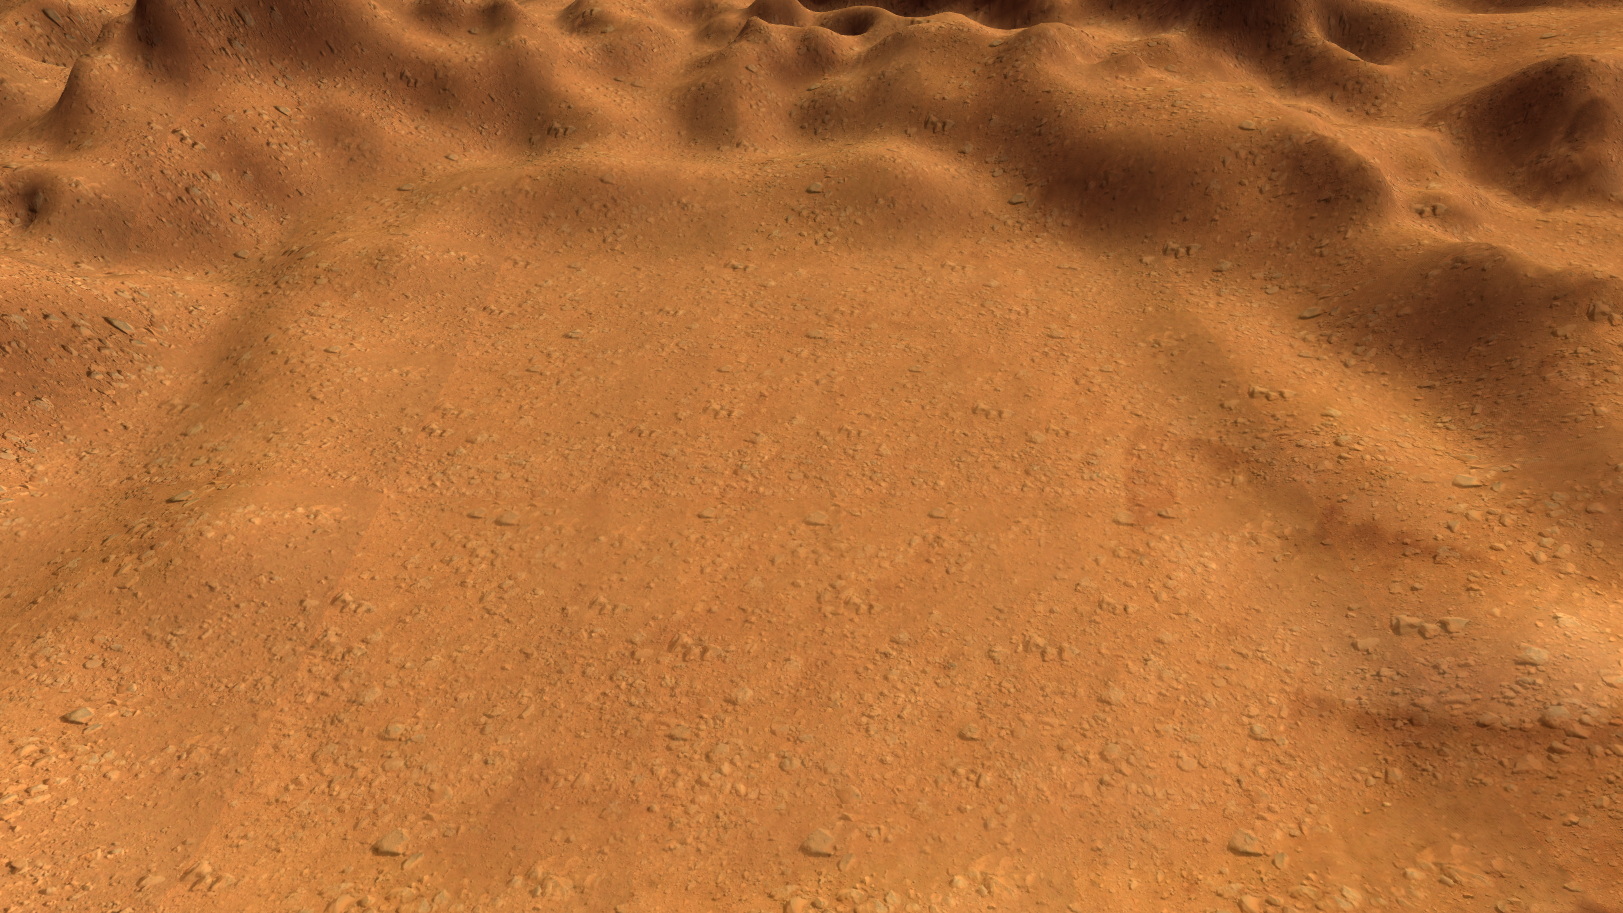
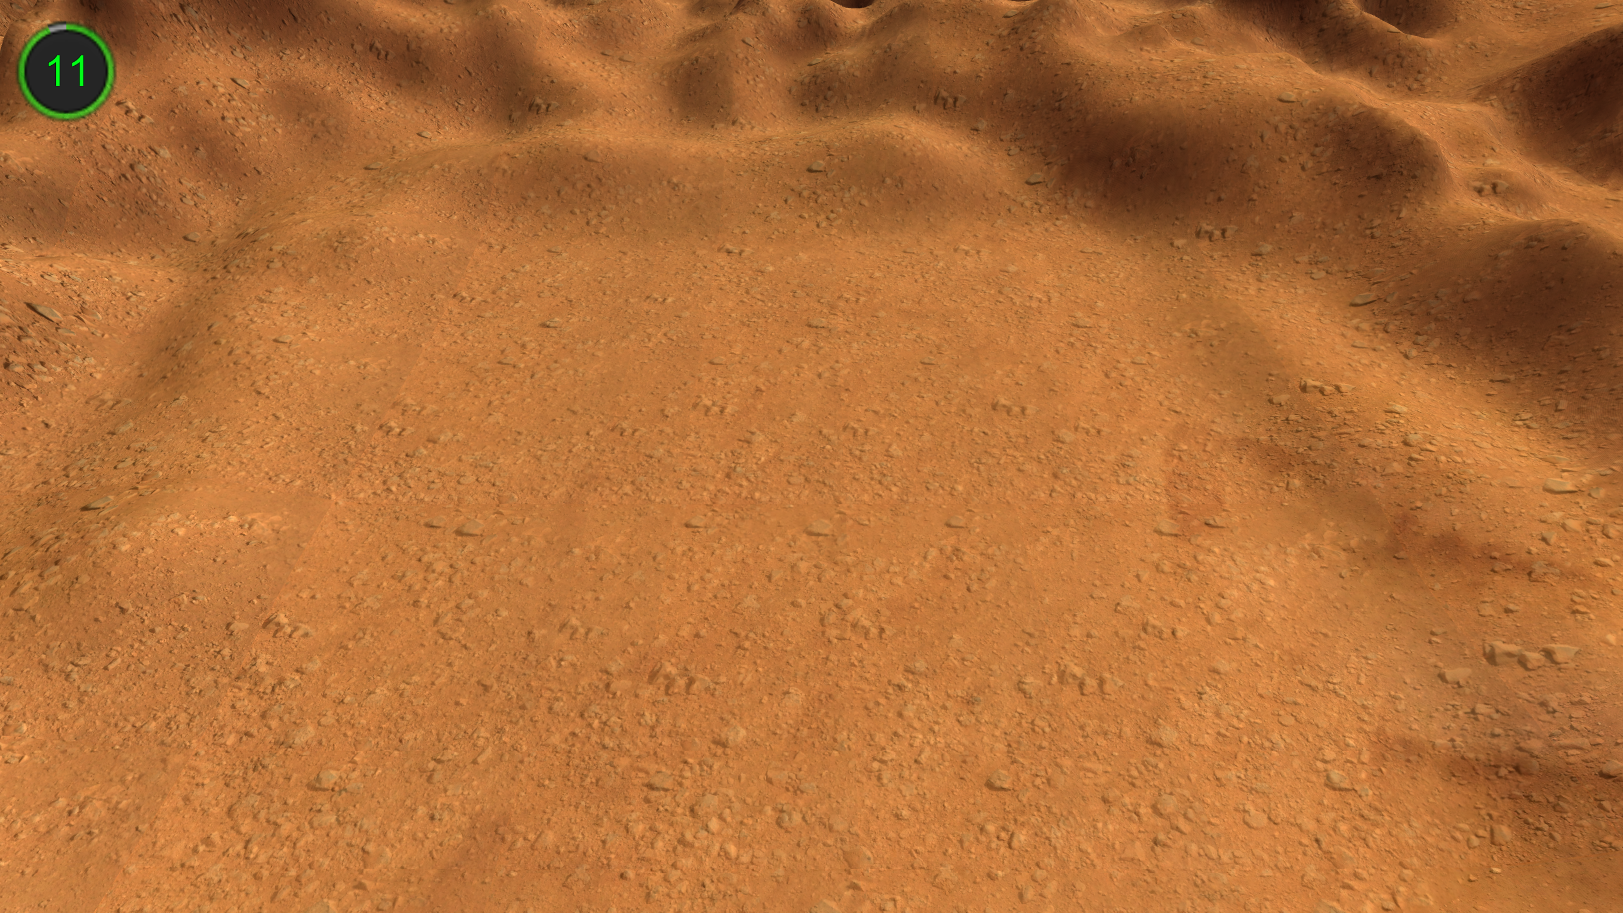
fixed the timer

diff --git a/Assets/Game/scripts/GameTimer.cs b/Assets/Game/scripts/GameTimer.cs
@@ -43,11 +43,12 @@ public class GameTimer : MonoBehaviour {
 
     IEnumerator CountDown()
     {
-        countDownTimer.gameObject.ScaleTo(Vector3.zero, 0.5f, 0f, EaseType.linear, LoopType.pingPong);
-        int timer = 0;
-        while (timer < 100)
-        {
-            
+        int timer = 60;
+        while (timer > 0)
+		{
+			countDownTimer.transform.localScale = Vector3.one * 1.3f;
+			countDownTimer.gameObject.ScaleTo(Vector3.one, 0.9f, 0f, EaseType.linear);
+
             if (timer == 41)
             {
                 overlayColor.color = Color.yellow;
@@ -58,7 +59,7 @@ public class GameTimer : MonoBehaviour {
                 overlayColor.color = Color.red;
                 countDownTimer.color = Color.red;
             }
-            timer++;
+            timer--;
             countDownTimer.text = timer.ToString();
             yield return new WaitForSeconds(1);
         }
